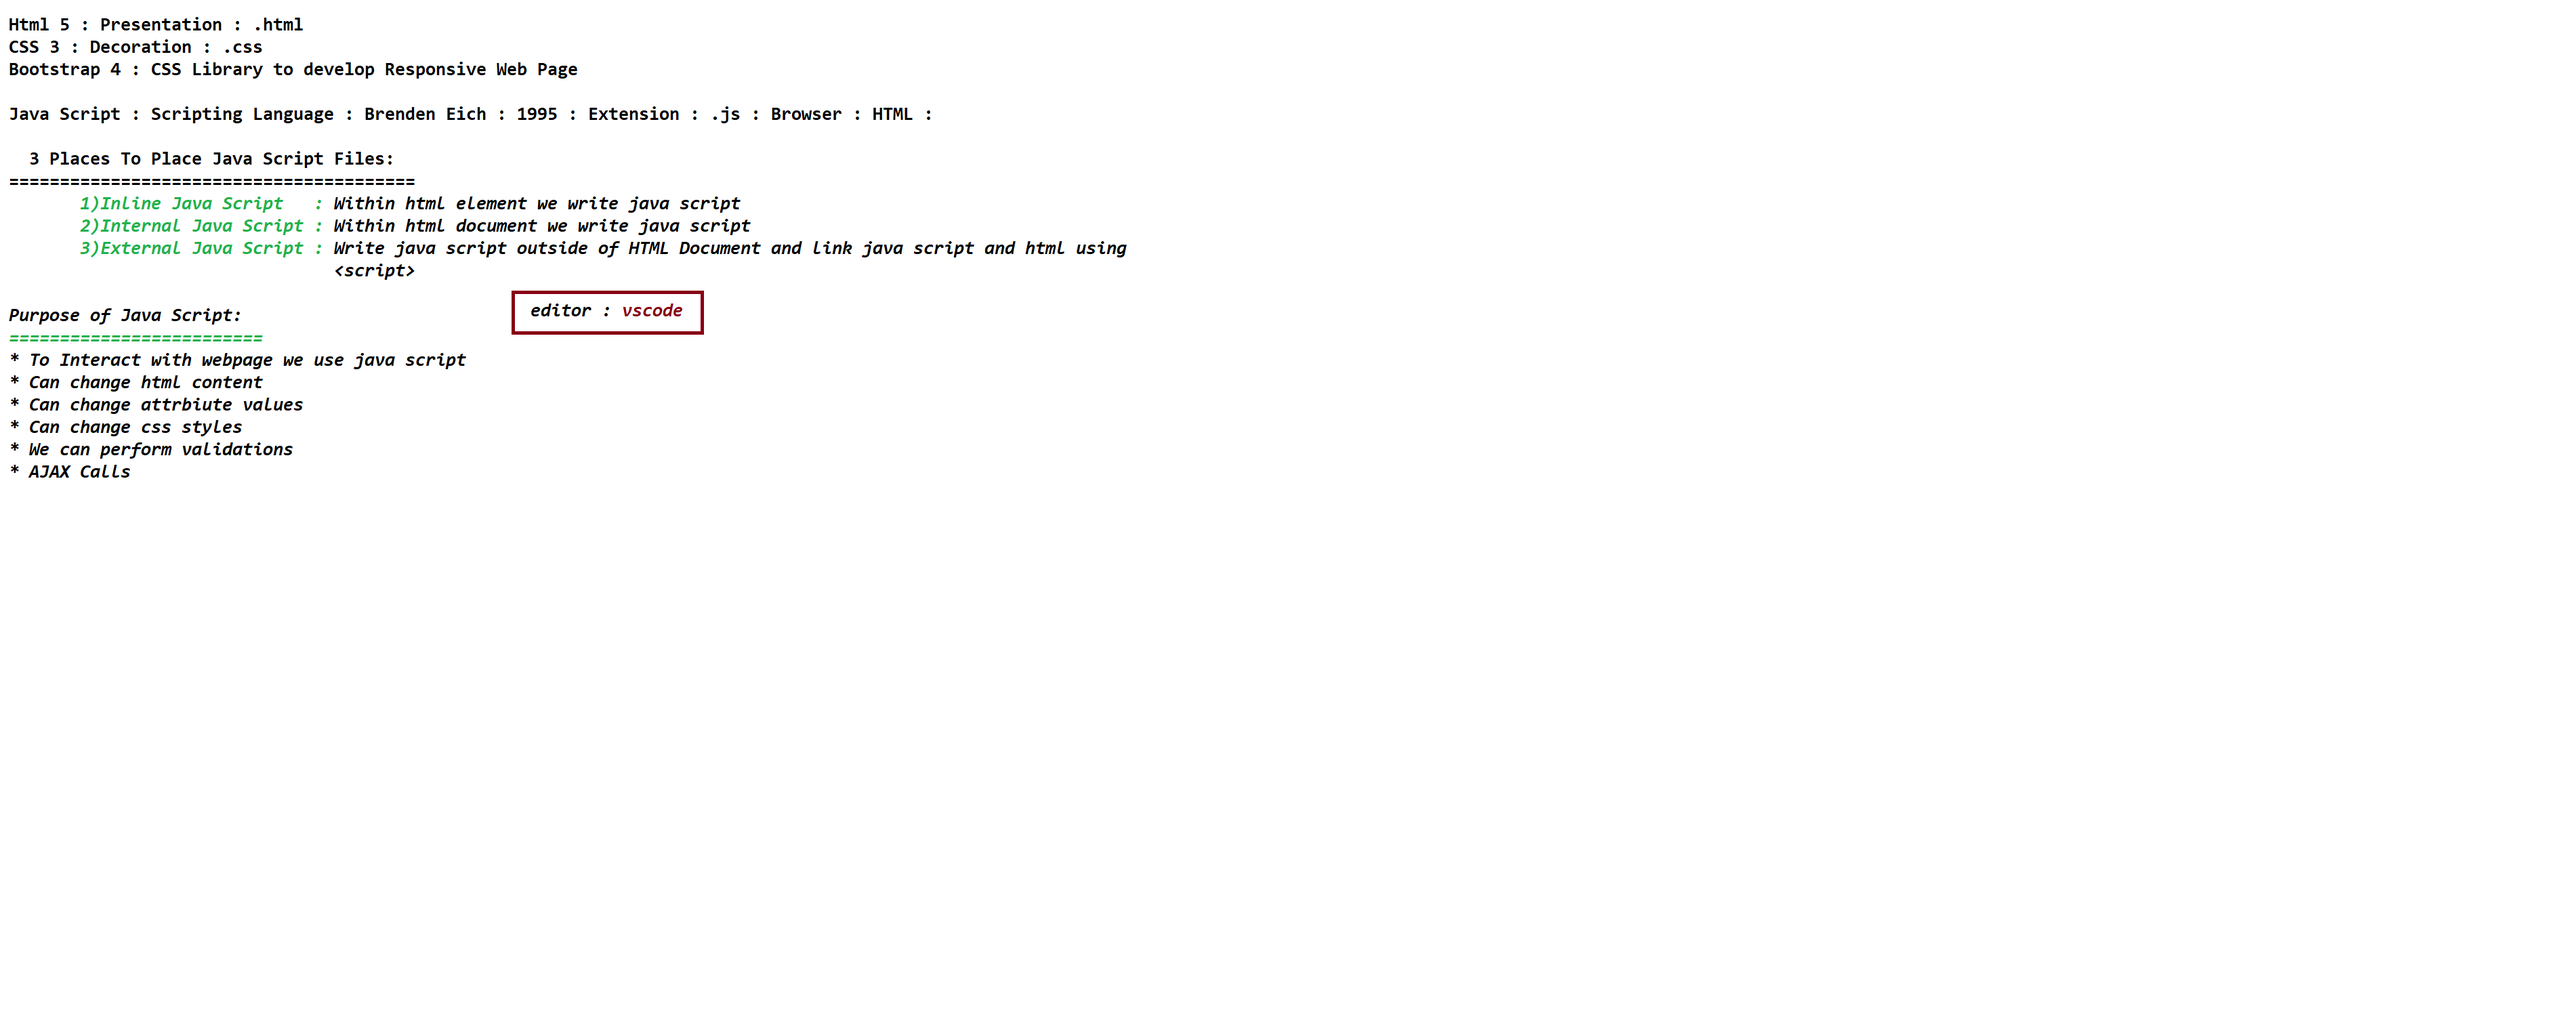
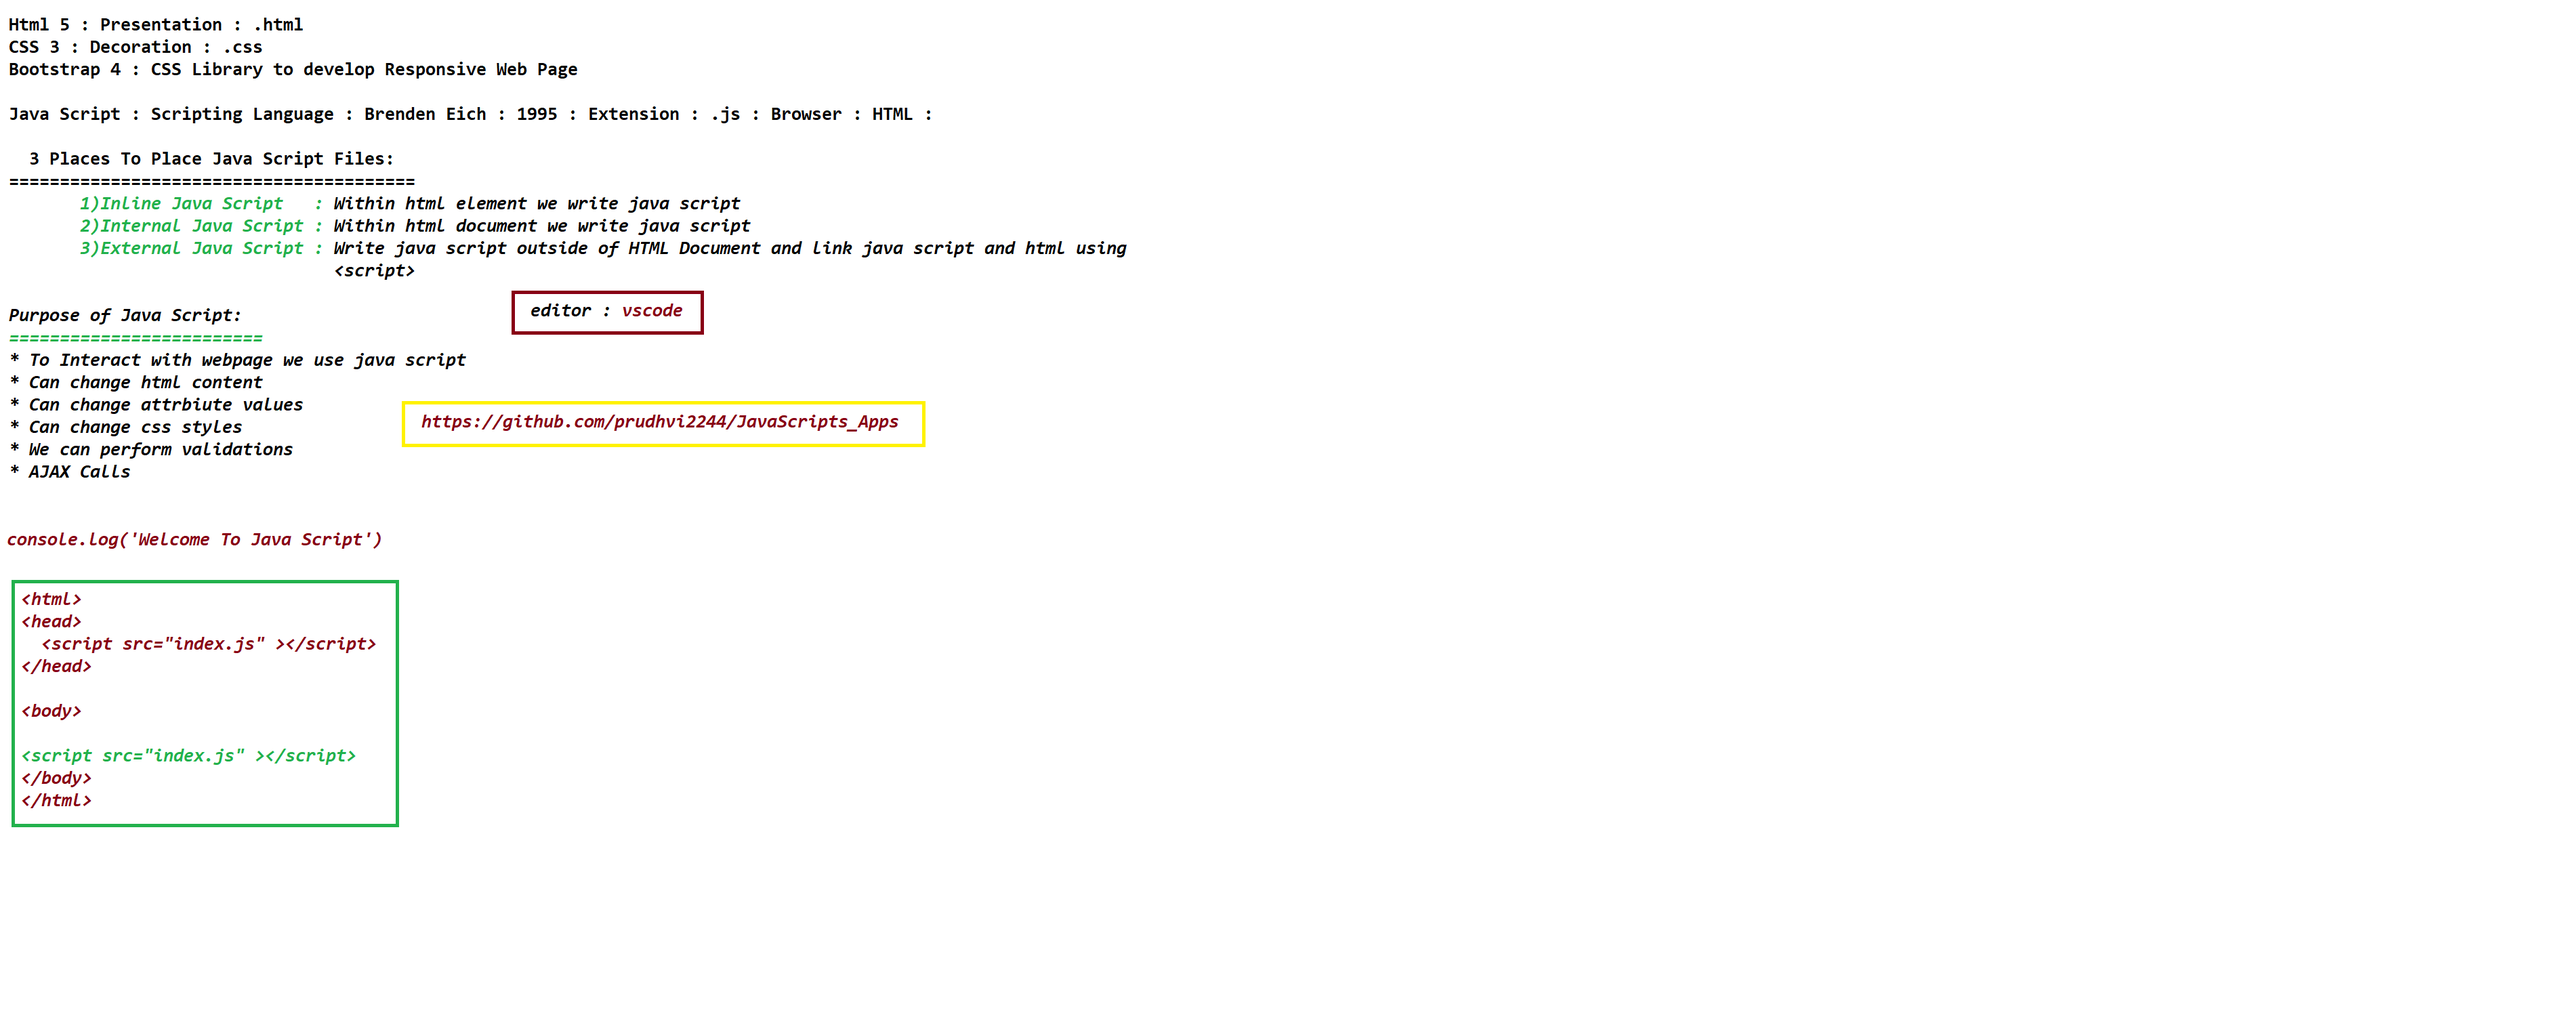
Intial Commit

diff --git a/object.js b/object.js
@@ -1,0 +1,78 @@
+/*
+var employee={
+    eid:1,
+    ename:'Prudhvi',
+    ecity:'Bangalore'
+}
+
+
+var employees=[
+    {eid:1,ename:'Prudhvi',ecity:'Bangalore'},
+    {eid:2,ename:'Prakash',ecity:'Bangalore'},
+    {eid:3,ename:'Pavan',ecity:'Bangalore'},
+    {eid:4,ename:'Prasad',ecity:'Bangalore'},
+    {eid:5,ename:'Praveen',ecity:'Bangalore'}
+]
+
+console.log(typeof(employee))
+console.log(employee)
+
+console.log('Employee ID :',employee.eid)
+console.log('Employee Name:',employee.ename)
+console.log('Employee City :',employee.ecity)
+
+for(employee1 in employee)
+{
+    console.log(employee[employee1])
+}
+
+
+console.log('*********************')
+
+employees.forEach(function(employee)
+{
+    console.log('Employee ID :',employee.eid)
+    console.log('Employee Name :',employee.ename)
+    console.log('Employee City :',employee.ecity)
+    console.log('****************************************')
+})
+
+console.log('---------------------------------------------------------------')
+employees.map(function(employee)
+{
+    console.log('Employee ID :',employee.eid)
+    console.log('Employee Name :',employee.ename.toUpperCase())
+    console.log('Employee City :',employee.ecity)
+    console.log('****************************************')
+})
+
+console.log('-=-=-=-=-=-=-=-=-=-=-=-=-=-==-==-=-=-=-=-=--=')
+
+for(employee of employees)
+{
+    console.log('Employee ID :',employee.eid)
+    console.log('Employee Name :',employee.ename.toUpperCase())
+    console.log('Employee City :',employee.ecity)
+    console.log('****************************************')
+}
+
+console.log('<><><><><><><><><><><><><><><><><><><><><><><><><><>')
+
+for(employee in employees)
+{
+    console.log('Employee ID :',employees.employee[0])
+    console.log('Employee Name :',employees[employee[1]])
+    console.log('Employee City :',employees[employee[2]])
+    console.log('****************************************')
+}
+
+
+*/
+
+
+
+
+
+
+
+

diff --git a/arrays.js b/arrays.js
@@ -1,0 +1,68 @@
+colors=['red','green','blue','orange']
+
+console.log(colors)
+console.log('Size of array :',colors.length)
+
+console.log('Processing Array Elements Using Normal For Loop')
+
+for(var i=0;i<colors.length;i++)
+{
+    console.log(colors[i])
+}
+
+console.log('Processing Array Elements Using array forEach method')
+
+colors.forEach(function(color)
+{
+    console.log(color)
+});
+
+console.log('Processing Array Elements Using for ... in loop')
+
+for(color in colors)
+{
+    console.log(colors[color])
+}
+
+console.log('Processing Array Elements using for ... of loop')
+
+
+for(color of colors)
+{
+    console.log(color)
+}
+
+var newColors=colors.map(function(color)
+{
+    return color.toUpperCase()
+})
+
+console.log(colors)
+console.log(newColors)
+
+var fiveLengthColors=colors.filter(function(color)
+{
+          return color.length>4
+ 
+})
+
+
+console.log(fiveLengthColors)
+
+var numbers=[10,10,90]
+
+var sum=numbers.reduce(function(n1,n2){
+    return n1+n2
+})
+
+console.log('Sum is :',sum)
+
+var names=['Raj','Prudhvi','Praveen']
+
+var a1=names.join('-')
+
+console.log(names)
+console.log(typeof(a1))
+console.log(a1.toUpperCase())
+
+names.concat()

diff --git a/index.js b/index.js
@@ -1,0 +1,60 @@
+console.log('Welcome To Java Script')
+console.log(1000+100+3+24542+525252+25252+252525)
+
+
+console.log('Data Types')
+
+var esalary
+
+var employee={
+    eid:1,
+    ename:'Prudhvi',
+    ecity:'Bangalore'
+}
+
+console.log(typeof(esalary))
+
+var estreet=null
+
+console.log(typeof(estreet))
+
+
+console.log(typeof(employee))
+console.log(employee)
+
+console.log('Employee ID :',employee.eid)
+console.log('Employee Name :',employee.ename)
+console.log('Employee City :',employee.ecity)
+console.log('Employee Email :',employee.email)
+
+
+/*
+var a=10
+var b=900.555
+var married=true
+var ename='Raj Prudhvi'
+var ecity="Bangalore"
+
+var colors=['Red','Green','Yellow','Pink',1,2,3,54,true]
+
+console.log(typeof(a))
+console.log(typeof(b))
+console.log(typeof(married))
+console.log(typeof(ename))
+console.log(typeof(ecity))
+console.log(typeof(colors))
+console.log(Array.isArray(colors))
+console.log(Array.isArray(ecity))
+
+console.log(a)
+console.log(b)
+console.log(married)
+console.log(ename)
+console.log(ecity)
+console.log(colors)
+
+*/
+
+
+
+

diff --git a/index.html b/index.html
@@ -1,0 +1,12 @@
+<!DOCTYPE html>
+<html lang="en">
+<head>
+    <meta charset="UTF-8">
+    <meta name="viewport" content="width=device-width, initial-scale=1.0">
+    <title>Index Page</title>
+    <script src="object.js"></script>
+</head>
+<body>
+    
+</body>
+</html>
